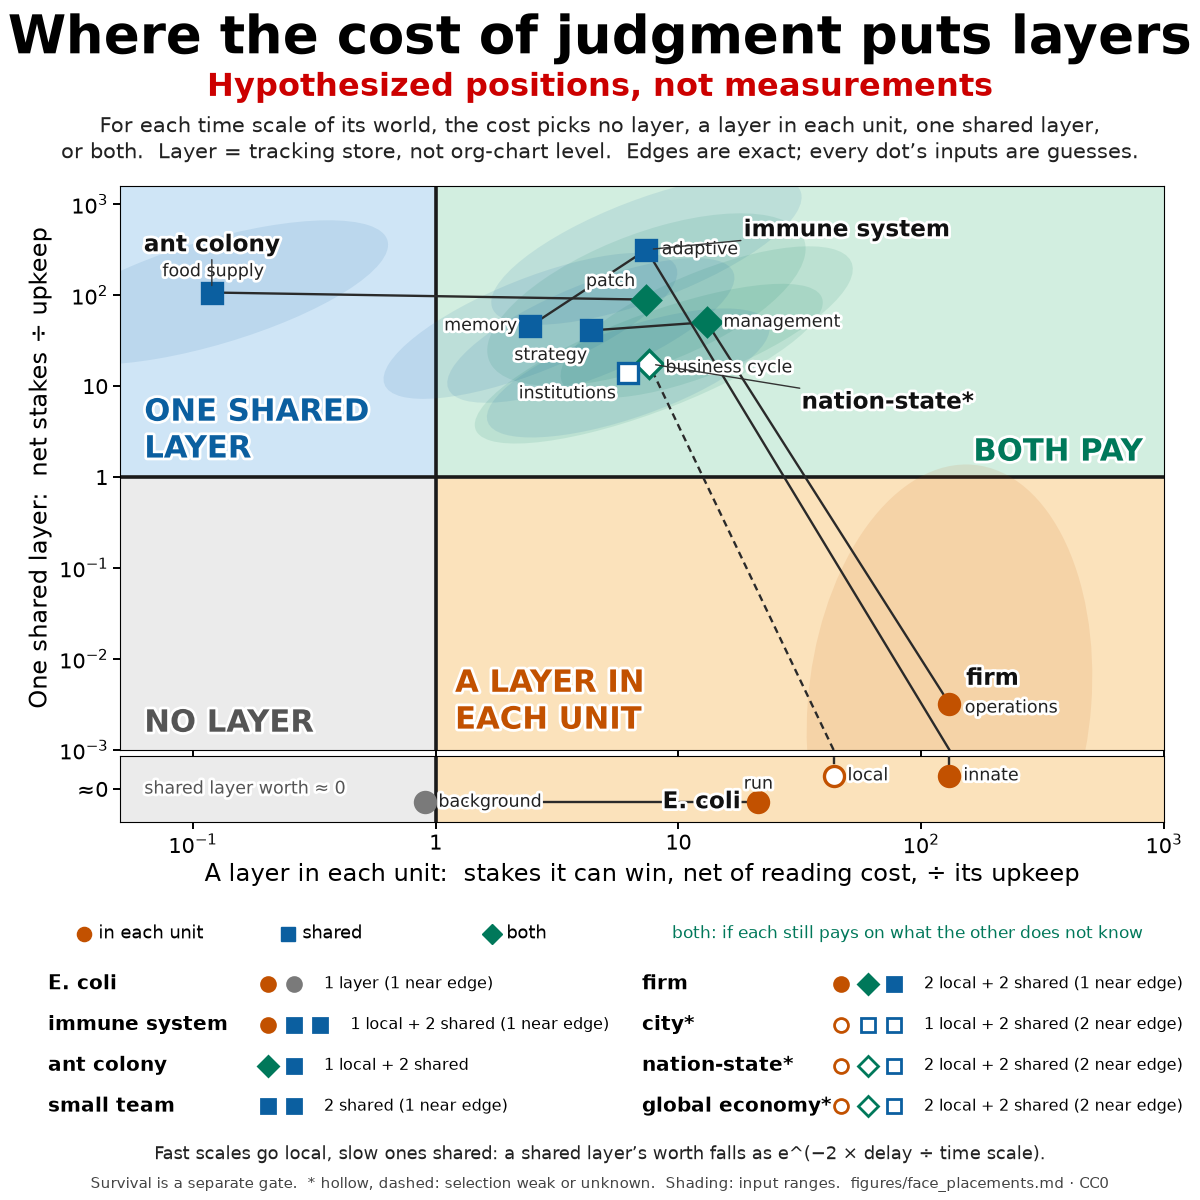
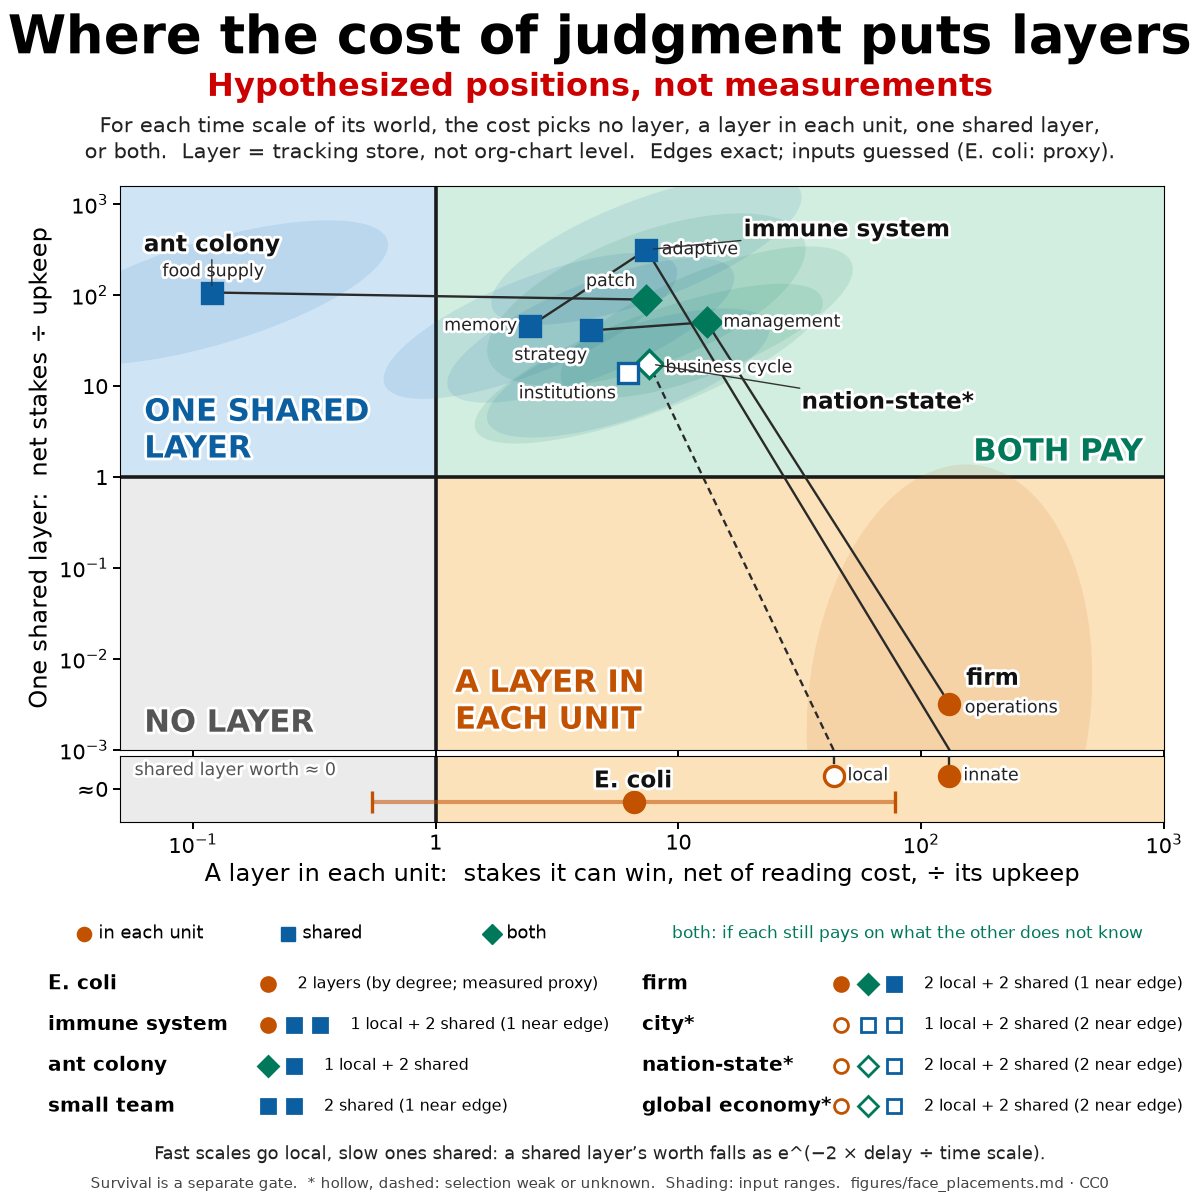
Face map: E. coli placed from PR #110's measured proxy (one degree-2 component, 2 stores), data-collapse figure

diff --git a/figures/face.py b/figures/face.py
@@ -28,10 +28,11 @@ def comps(name):
 
 def reading(name, short=False):
     ds = [d['centre']['d'] for _, _, d in comps(name)]; n1 = all(not np.isfinite(d['centre']['XS']) for _, _, d in comps(name))
-    kl = sum(x in (1, 3) for x in ds); ks = sum(x in (2, 3) for x in ds)
+    dg = [d.get('degree', 1) for _, _, d in comps(name)]
+    kl = sum(g for x, g in zip(ds, dg) if x in (1, 3)); ks = sum(g for x, g in zip(ds, dg) if x in (2, 3))
     nb = sum(max(d['design_share'].values()) < 0.65 for _, _, d in comps(name))
     tail = '' if not nb else (f' ({nb} near edge)' if short else (' (1 borderline)' if nb == 1 else f' ({nb} borderline)'))
-    if n1: return (f'{kl} layer' + ('s' if kl != 1 else '')) + (' in the one cell' if name == 'E. coli' and not short else '') + tail
+    if n1: return (f'{kl} layer' + ('s' if kl != 1 else '')) + (' (by degree; measured proxy)' if name == 'E. coli' else '') + tail
     parts = []
     if kl: parts.append(f'{kl} local' if short else f'{kl} in each unit')
     if ks: parts.append(f'{ks} shared')
@@ -54,7 +55,7 @@ def draw_map(ax, st, lim, fs, show, lab, ell_sigma=1.0, ell_alpha=0.10, strip_ro
     ax.text(0.08, Y0 + 0.12, 'A LAYER IN\nEACH UNIT', color=K_LOC, ha='left', va='bottom', **kw)
     ax.text(X0 + 0.1, 0.1, 'ONE SHARED\nLAYER', color=K_SH, ha='left', va='bottom', **kw)
     ax.text(X1 - 0.08, 0.1, 'BOTH PAY', color=K_BOTH, ha='right', va='bottom', **kw)
-    st.text(X0 + 0.1, 0.5, 'shared layer worth ≈ 0', color='#555555', ha='left', va='center', fontsize=fs * 0.74, zorder=2, path_effects=OUT)
+    st.text(X0 + 0.06, 0.78, 'shared layer worth ≈ 0', color='#555555', ha='left', va='center', fontsize=fs * 0.74, zorder=2, path_effects=OUT)
     for k, name in enumerate(show):
         pts = comps(name); strong = pts[0][2]['strong']; ls = '-' if strong else (0, (3, 2))
         row = (strip_rows or {}).get(name, 0.5)
@@ -70,6 +71,9 @@ def draw_map(ax, st, lim, fs, show, lab, ell_sigma=1.0, ell_alpha=0.10, strip_ro
             if ell_sigma and a is ax and 'cov' in d:
                 C = np.array(d['cov']); w, V = np.linalg.eigh(C); ang = np.degrees(np.arctan2(V[1, 1], V[0, 1]))
                 a.add_patch(Ellipse((x, y), 2 * ell_sigma * np.sqrt(w[1]), 2 * ell_sigma * np.sqrt(max(w[0], 1e-8)), angle=ang, facecolor=col, edgecolor='none', alpha=ell_alpha, zorder=2.2))
+            if d.get('measured') and a is st:
+                q = d['inputs']['logXL']; a.plot(q, [yv, yv], color=col, lw=3, alpha=0.55, zorder=3.5, solid_capstyle='butt')
+                a.plot(q, [yv, yv], ls='none', marker='|', ms=fs * 0.9, mew=2.4, color=col, zorder=3.5)
             a.plot([x], [yv], marker=m, ms=fs * 0.85, mfc=col if strong else 'white', mec=col, mew=2.4, zorder=4, clip_on=False)
             if (name, d['lab']) in lab:
                 dx, dy = lab[(name, d['lab'])]
@@ -111,7 +115,7 @@ def legend_row(fig, x, y, fs, gap):
 
 LIM = (-1.3, 3.0, -3.0, 3.2)
 SHOW = ['E. coli', 'immune system', 'ant colony', 'firm', 'nation-state']
-LAB = {('E. coli', 'run'): (0, 13), ('E. coli', 'background'): (10, 0), ('E. coli', None): (0, -12, 0),
+LAB = {('E. coli', None): (0, 0, 15),
        ('immune system', 'innate'): (10, 0), ('immune system', 'adaptive'): (11, 0), ('immune system', 'memory'): (-11, 0), ('immune system', None): (1, 70, 14),
        ('ant colony', 'patch'): (-9, 13), ('ant colony', 'food supply'): (0, 15), ('ant colony', None): (1, 0, 34),
        ('firm', 'operations'): (11, -3), ('firm', 'management'): (12, 0), ('firm', 'strategy'): (-4, -18), ('firm', None): (0, 12, 18),
@@ -121,9 +125,9 @@ ROWS = {'E. coli': 0.3, 'nation-state': 0.7, 'immune system': 0.7}
 T = 'Where the cost of judgment puts layers'
 RED = 'Hypothesized positions, not measurements'
 SUB = 'For each time scale of its world, the cost picks no layer, a layer in each unit, one shared layer, or both.'
-SUB2 = 'Layer = tracking store, not org-chart level.  The edges hold for any world; every dot\u2019s inputs are guesses.'
+SUB2 = 'Layer = tracking store, not org-chart level.  Edges hold for any world.  Inputs are guesses (E. coli: measured proxy).'
 F1 = 'A shared layer\u2019s worth = upkeep shared \u00d7 pooling gain \u00d7 e^(\u22122 \u00d7 delay \u00f7 time scale) \u00d7 a local layer\u2019s worth, so fast scales go local and slow ones shared.'
-F2 = 'Survival is a separate gate: where ruin binds, the design shifts.   * hollow, dashed: selection weak or unknown.   Shading: input ranges (1\u03c3).   Details: figures/face_placements.md  \u00b7  CC0'
+F2 = 'Survival is a separate gate.   * hollow, dashed: selection weak or unknown.   Shading: input ranges; bar: measured range.   figures/face_placements.md  \u00b7  CC0'
 
 def face():
     fig = plt.figure(figsize=(16, 10), dpi=100); fs = 19
@@ -144,7 +148,7 @@ def square():
     draw_map(ax, st, LIM, fs, SHOW, LAB, strip_rows=ROWS)
     fig.text(0.5, 0.967, T, ha='center', va='center', fontsize=38, weight='bold')
     fig.text(0.5, 0.927, RED, ha='center', va='center', fontsize=23, weight='bold', color='#cc0000')
-    fig.text(0.5, 0.884, 'For each time scale of its world, the cost picks no layer, a layer in each unit, one shared layer,\nor both.  Layer = tracking store, not org-chart level.  Edges are exact; every dot\u2019s inputs are guesses.',
+    fig.text(0.5, 0.884, 'For each time scale of its world, the cost picks no layer, a layer in each unit, one shared layer,\nor both.  Layer = tracking store, not org-chart level.  Edges exact; inputs guessed (E. coli: proxy).',
              ha='center', va='center', fontsize=15, color='#222222', linespacing=1.25)
     legend_row(fig, 0.07, 0.222, 17, 0.17)
     fig.text(0.56, 0.222, 'both: if each still pays on what the other does not know', fontsize=12.5, color=K_BOTH, va='center')

diff --git a/figures/face_collapse.py b/figures/face_collapse.py
@@ -1,0 +1,45 @@
+"""Data-collapse figure for the face map.   nice -n 19 python3 figures/face_collapse.py   (seconds; reads the face_collapse_v*.json files)
+(a) 3000 random one-component worlds (face_collapse_v1.py) in raw inputs: stakes/upkeep against number of units, coloured by the design a
+    brute-force numerical search found best.  The designs overlap.  (b) the same worlds in the map's coordinates (X_L, X_S): the quadrant
+    edges at 1 separate NONE, LOCAL and SHARED exactly.  (c) the worlds in the upper-right quadrant on (kappa_L*X_L, kappa_S*X_S): BOTH
+    iff both exceed 1; the rest split on nu*(X_L-1) vs X_S-1.  (d) 1500 worlds with the reading price optimized per design (face_collapse_v1b.py):
+    net coordinates, same edges.  Writes figures/face_collapse.png."""
+import os, json
+import numpy as np
+import matplotlib; matplotlib.use('Agg')
+import matplotlib.pyplot as plt
+HERE = os.path.dirname(os.path.abspath(__file__))
+COL = ['#7a7a7a', '#c25100', '#0b5fa0', '#00785a']; NAME = ['no layer', 'local', 'shared', 'both']
+V1 = json.load(open(os.path.join(HERE, 'face_collapse_v1.json'))); V1B = json.load(open(os.path.join(HERE, 'face_collapse_v1b.json')))
+V23 = json.load(open(os.path.join(HERE, 'face_collapse_v23.json')))['summary']
+L = lambda x: np.log10(np.clip(np.asarray(x, float), 1e-6, None))
+
+def scatter(ax, x, y, b, s=7):
+    for k in range(4):
+        m = b == k; ax.scatter(x[m], y[m], s=s, c=COL[k], label=f'{NAME[k]} ({m.sum()})', alpha=0.6, lw=0)
+
+def quad(ax):
+    ax.axvline(0, color='k', lw=1.6); ax.axhline(0, color='k', lw=1.6)
+
+w = V1['worlds']; b = np.array([r['brute'] for r in w])
+fig, axs = plt.subplots(2, 2, figsize=(14, 12), dpi=90)
+ax = axs[0, 0]; scatter(ax, L([r['wu'] / r['hl'] for r in w]), L([r['n'] for r in w]) + np.random.default_rng(0).uniform(-0.04, 0.04, len(w)), b)
+ax.set_xlabel('log10 stakes per unit \u00f7 local upkeep (raw input)'); ax.set_ylabel('log10 number of units (raw input)')
+ax.set_title('(a) raw inputs: the best designs overlap', weight='bold'); ax.legend(loc='lower right', markerscale=2.5, fontsize=10)
+XL = np.array([r['XL'] for r in w]); XS = np.array([r['XS'] for r in w])
+ax = axs[0, 1]; scatter(ax, L(XL), L(XS), b); quad(ax)
+ax.set_xlabel('log10 $X_L$ (local layer: stakes won \u00f7 upkeep)'); ax.set_ylabel('log10 $X_S$ (shared layer: stakes won \u00f7 upkeep)')
+ax.set_title(f'(b) map coordinates: edges at 1 are exact  (agreement {V1["summary"]["agree"]:.0%} of {V1["summary"]["M"]})', weight='bold')
+ur = (XL > 1) & (XS > 1); kL = np.array([r['kL'] for r in w]); kS = np.array([r['kS'] for r in w])
+ax = axs[1, 0]; scatter(ax, L((kL * XL)[ur]), L((kS * XS)[ur]), b[ur], s=9); quad(ax)
+ax.set_xlabel('log10 $\\kappa_L X_L$ (local layer\u2019s worth on what the shared one misses)'); ax.set_ylabel('log10 $\\kappa_S X_S$ (shared layer\u2019s worth on what local misses)')
+ax.set_title('(c) upper-right quadrant: both iff both > 1', weight='bold'); ax.legend(loc='lower right', markerscale=2.5, fontsize=10)
+w2 = V1B['worlds']; b2 = np.array([r['brute'] for r in w2])
+ax = axs[1, 1]; scatter(ax, L([r['XL'] for r in w2]), L([r['XS'] for r in w2]), b2); quad(ax)
+ax.set_xlabel('log10 $X_L$ net of reading cost'); ax.set_ylabel('log10 $X_S$ net of reading cost')
+ax.set_title(f'(d) reading priced: agreement {V1B["summary"]["agree"]:.0%} of {V1B["summary"]["M"]}', weight='bold')
+fig.suptitle('Data collapse: the map\u2019s coordinates sort random worlds by their best design', fontsize=18, weight='bold')
+fig.text(0.5, 0.012, f'One read stream, two time scales (600 worlds): placing layers one at a time by marginal worth matches the exact best design in '
+         f'{V23["v3_greedy_same"]:.0%};\n reading each scale as if it had its own channel matches in {V23["v3_same"]:.0%}.', ha='center', fontsize=12)
+fig.text(0.99, 0.5, 'points at $10^{-6}$: worth ≤ 0 (clipped)', rotation=90, va='center', fontsize=9, color='#555555')
+fig.tight_layout(rect=(0, 0.05, 0.98, 0.96)); fig.savefig(os.path.join(HERE, 'face_collapse.png')); print('saved face_collapse.png')

diff --git a/figures/face_systems.py b/figures/face_systems.py
@@ -9,16 +9,22 @@ Per component (one Ornstein-Uhlenbeck time scale; times in hours):
   R     stakes over upkeep for ONE unit's layer if its reads were perfect: w_u*v/h_l  (guess in every row)
   hc    upkeep of one shared layer over one unit's layer: h_c/h_l (guess)
 Coordinates (face_map.py): X_L = R*(1 - P/v), X_S = (n/hc)*R*G_S/v.  n = 1: no shared option (drawn in the bottom band).
-stream='one': the components reach the system through ONE read stream (E. coli's receptors), so they are not separate channels; the
-coordinates are then the MARGINAL worths of the 1st and 2nd layer, R*(E_0 - E_1) and R*(E_1 - E_2) (THEORY L2; V3 of
-face_collapse_v23.py shows the layer-by-layer reading is exact there), with N set by the fast component's snr and R the run row's."""
+degree: a component's McMillan degree (default 1); it is held by that many stores (a rhythm or an integrated signal counts 2).
+measured=True (E. coli only): X_L is taken from the measured benefit/upkeep proxy, not computed from guessed stakes."""
 H, D, W, MO, Y = 1.0, 24.0, 24.0 * 7, 24.0 * 30.4, 24.0 * 365.25
 SEC, MIN = 1 / 3600, 1 / 60
 
 SYSTEMS = [
- dict(name='E. coli', strong=True, stream='one', comps=[
-   dict(lab='run', tau=(0.5 * SEC, 3 * SEC), lead=(0.1 * SEC, 0.3 * SEC), n=(1, 1), rho=(1, 1), snr=(1, 10), R=(3, 100), hc=(1, 1)),
-   dict(lab='background', tau=(30 * SEC, 300 * SEC), lead=(0.1 * SEC, 0.3 * SEC), n=(1, 1), rho=(1, 1), snr=(30, 1000), R=(3, 100), hc=(1, 1))]),
+ dict(name='E. coli', strong=True, measured=True, comps=[
+   # MEASURED (PR #110, branch v2.5-measure, theory/measured/measured.json, Mattingly et al. 2021 conditions): the world is ONE OU signal
+   # (the swim's log-concentration gradient, tau_v = 1.16 s) read through its integral, McMillan degree 2, so it is ONE component of
+   # degree 2 and gets 2 stores (counted by degree; the measured kernel has 2 poles).  Its X_L is the measured PROXY benefit / upkeep
+   # (fitness benefit of chemotaxis in poor carbon, Ni 2020, over the signalling machinery's proteome share): log10 -0.26 .. 1.89,
+   # central 0.81.  The benefit is the stakes the layers actually win (net of reading and latency), so it is X_L itself, not w*Var/h.
+   # Latency l/tau_fast: log10 -0.76 (-1.47 .. -0.58), snr 0.0043-0.103 (arm B); both are already inside the measured benefit.
+   # n = 1: no shared option.  Not w*Var/h: a proxy (README of PR #110).
+   dict(lab='gradient signal', degree=2, logXL=(-0.263, 1.893), logXL_c=0.815, tau=(1.16 * SEC, 1.16 * SEC),
+        lead=(10 ** -1.468 * 1.16 * SEC, 10 ** -0.582 * 1.16 * SEC), n=(1, 1), rho=(1, 1), snr=(0.0043, 0.103), R=(10 ** -0.263, 10 ** 1.893), hc=(1, 1))]),
  dict(name='immune system', strong=True, comps=[
    dict(lab='innate', tau=(1 * H, 10 * H), lead=(12 * H, 48 * H), n=(100, 1000), rho=(0.1, 0.5), snr=(1, 30), R=(30, 3000), hc=(3, 100)),
    dict(lab='adaptive', tau=(5 * D, 30 * D), lead=(12 * H, 48 * H), n=(100, 1000), rho=(0.5, 1.0), snr=(0.3, 10), R=(3, 300), hc=(3, 100)),

diff --git a/figures/face_place.py b/figures/face_place.py
@@ -7,18 +7,11 @@ HERE = os.path.dirname(os.path.abspath(__file__)); sys.path.insert(0, HERE)
 import face_map as fm
 from face_hybrid import best_fast
 from face_systems import SYSTEMS
-sys.path.insert(0, os.path.join(os.path.dirname(HERE), 'theory', 'layers_checks'))
-from stores import E_K as storeE
-from lead import E_opt
 
-def one_stream(cs, u):
-    """Marginal worths of layers 1..J for a single unit reading the sum of the components through one stream."""
-    lg = lambda r, t: float(np.exp(np.log(r[0]) + t * (np.log(r[1]) - np.log(r[0]))))
-    taus = [lg(c['tau'], u[0 + 2 * j]) for j, c in enumerate(cs)]; a = 1 / np.array(taus); v = np.ones(len(cs))
-    snr = lg(cs[0]['snr'], u[1]); N = 2 * v[0] / (snr * a[0]); R = lg(cs[0]['R'], u[5])
-    E = [v.sum()] + [storeE(a, v, N, K, starts=4)[0] for K in range(1, len(cs))] + [E_opt(a, v, N, 0.0)]
-    E = np.minimum.accumulate(np.array(E)); X = R * -np.diff(E)
-    return [dict(XL=float(x), XS=float('nan'), nu=1.0, kL=1.0, kS=0.0, d=int(x > 1), ell_tau=float('nan'), pi=1.0) for x in X]
+def measured(c, t):
+    """E. coli: X_L from the measured proxy log-range (log-uniform), n = 1."""
+    XL = 10 ** (c['logXL'][0] + t * (c['logXL'][1] - c['logXL'][0])) if t is not None else 10 ** c['logXL_c']
+    return dict(XL=float(XL), XS=float('nan'), nu=1.0, kL=1.0, kS=0.0, d=int(XL > 1), ell_tau=float('nan'), pi=1.0)
 NDRAW = 400
 
 def coords(c, u):
@@ -37,14 +30,13 @@ def coords(c, u):
 
 def job(args):
     si, ci = args; S = SYSTEMS[si]; c = S['comps'][ci]; rng = np.random.default_rng(100 * si + ci)
-    if S.get('stream') == 'one':
-        centre = one_stream(S['comps'], np.full(7, 0.5))[ci]
-        draws = [one_stream(S['comps'], rng.uniform(size=7))[ci] for _ in range(NDRAW // 4)]
+    if S.get('measured'):
+        centre = measured(c, None); draws = [measured(c, t) for t in rng.uniform(size=NDRAW)]
     else:
         centre = coords(c, np.full(7, 0.5))
         draws = [coords(c, rng.uniform(size=7)) for _ in range(NDRAW)]
     lx = np.log10([d['XL'] for d in draws]); ly = np.log10([max(d['XS'], 1e-300) for d in draws]) if c['n'][1] > 1 else None
-    out = dict(system=SYSTEMS[si]['name'], strong=SYSTEMS[si]['strong'], lab=c['lab'], inputs={k: c[k] for k in c if k != 'lab'}, centre=centre,
+    out = dict(system=S['name'], strong=S['strong'], measured=bool(S.get('measured')), degree=c.get('degree', 1), lab=c['lab'], inputs={k: c[k] for k in c if k != 'lab'}, centre=centre,
                design_share={fm.VALUE_NAMES[k]: float(np.mean([d['d'] == k for d in draws])) for k in range(4)},
                logXL_mean=float(lx.mean()), logXL_sd=float(lx.std()))
     if ly is not None:

diff --git a/figures/face_collapse_v23.py b/figures/face_collapse_v23.py
@@ -76,7 +76,7 @@ if __name__ == '__main__':
         res['v3'] = sorted(pool.map(v3_job, range(M3)), key=lambda x: x['seed']); print('v3 done', time.time() - t0, flush=True)
     v2c = np.mean([x['convex'] for x in res['v2']]); v2t = np.mean([x['convex_tol'] for x in res['v2']]); v3s = np.mean([x['same'] for x in res['v3']]); v3t = np.mean([x['same_total'] for x in res['v3']])
     reg = np.array([x['regret'] for x in res['v3']])
-    res['summary'] = dict(M2=M2, v2_convex=float(v2c), v2_convex_within_1e-5=float(v2t), M3=M3, v3_same=float(v3s), v3_same_total=float(v3t), v3_regret_median=float(np.median(reg)),
+    res['summary'] = dict(M2=M2, v2_convex=float(v2c), v2_convex_within_tol=float(v2t), M3=M3, v3_same=float(v3s), v3_same_total=float(v3t), v3_regret_median=float(np.median(reg)),
                           v3_regret_p90=float(np.quantile(reg, 0.9)), v3_regret_max=float(reg.max()), v3_greedy_same=float(np.mean([x['same_greedy'] for x in res['v3']])),
                           v3_greedy_regret_p90=float(np.quantile([x['regret_greedy'] for x in res['v3']], 0.9)), v3_greedy_regret_max=float(max(x['regret_greedy'] for x in res['v3'])), secs=time.time() - t0)
     print(res['summary'])
